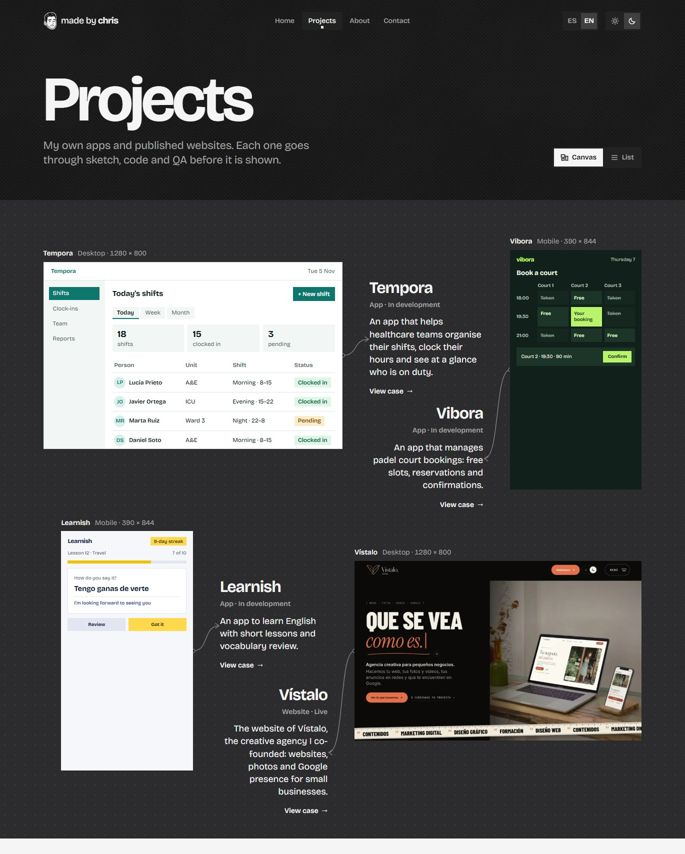
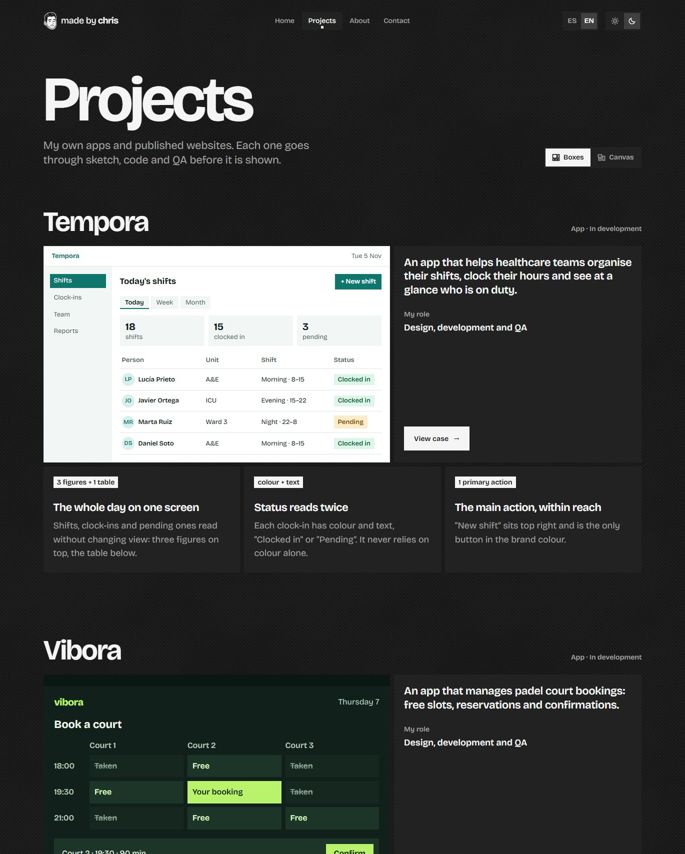
chore: refresh the Projects thumbnails and heights; note the approved boxes

Changed region(s): [[0.0, 0.2436, 1.0, 1.0], [0.7971, 0.1522, 0.9197, 0.2131], [0.2759, 0.3653, 0.3372, 0.4567]]

diff --git a/docs/referencias/roadmap-prototipo-def.md b/docs/referencias/roadmap-prototipo-def.md
@@ -867,8 +867,8 @@ igual: un punto por parada y la casilla se marca con su visto bueno.
     así" con el bocadillo, las cajas de proyectos con vídeo al estilo de poulo.site y mirar por
     qué han dejado de verse las capas 3D de la home.
 
-- [ ] **Proyectos en cajas** (idea suya, con poulo.site como referencia de organización; en
-  marcha el 20 nov):
+- [x] **Proyectos en cajas** (idea suya, con poulo.site como referencia de organización; hecho y
+  aprobado el 20 nov; **quedan sus vídeos**, ver el último punto):
   - Hecho: el componente `src/components/ui/ProjectBento.astro`. Por proyecto: nombre y datos,
     una caja grande con su pieza (la interfaz que se toca), una caja con el resumen, el papel y
     "Ver caso", y una fila con sus tres decisiones (`src/data/cases.ts`). Cajas del sistema: planas,
@@ -880,7 +880,8 @@ igual: un punto por parada y la casilla se marca con su visto bueno.
   - Cada proyecto está ahora dos veces en la página (una por vista, la otra escondida). Por eso
     `frames.ts` coge para el paso animado al caso las piezas de la vista que se ve, y la vista
     guardada se aplica también al llegar navegando (script del `<head>` de `Layout.astro`).
-  - Pendiente de su visto bueno. Después: rehacer las miniaturas del lienzo de Proyectos.
+  - Las miniaturas del lienzo de Proyectos y su altura (`canvas-sizes.json`: la página pasa de
+    2.397 a 4.641 px) ya están rehechas.
   - Falta de él: un vídeo corto por app (8–15 s, sin sonido, una sola acción). Cuando llegue el
     primero se añade el campo `video` al esquema de proyectos y la caja grande lo enseña.
 
